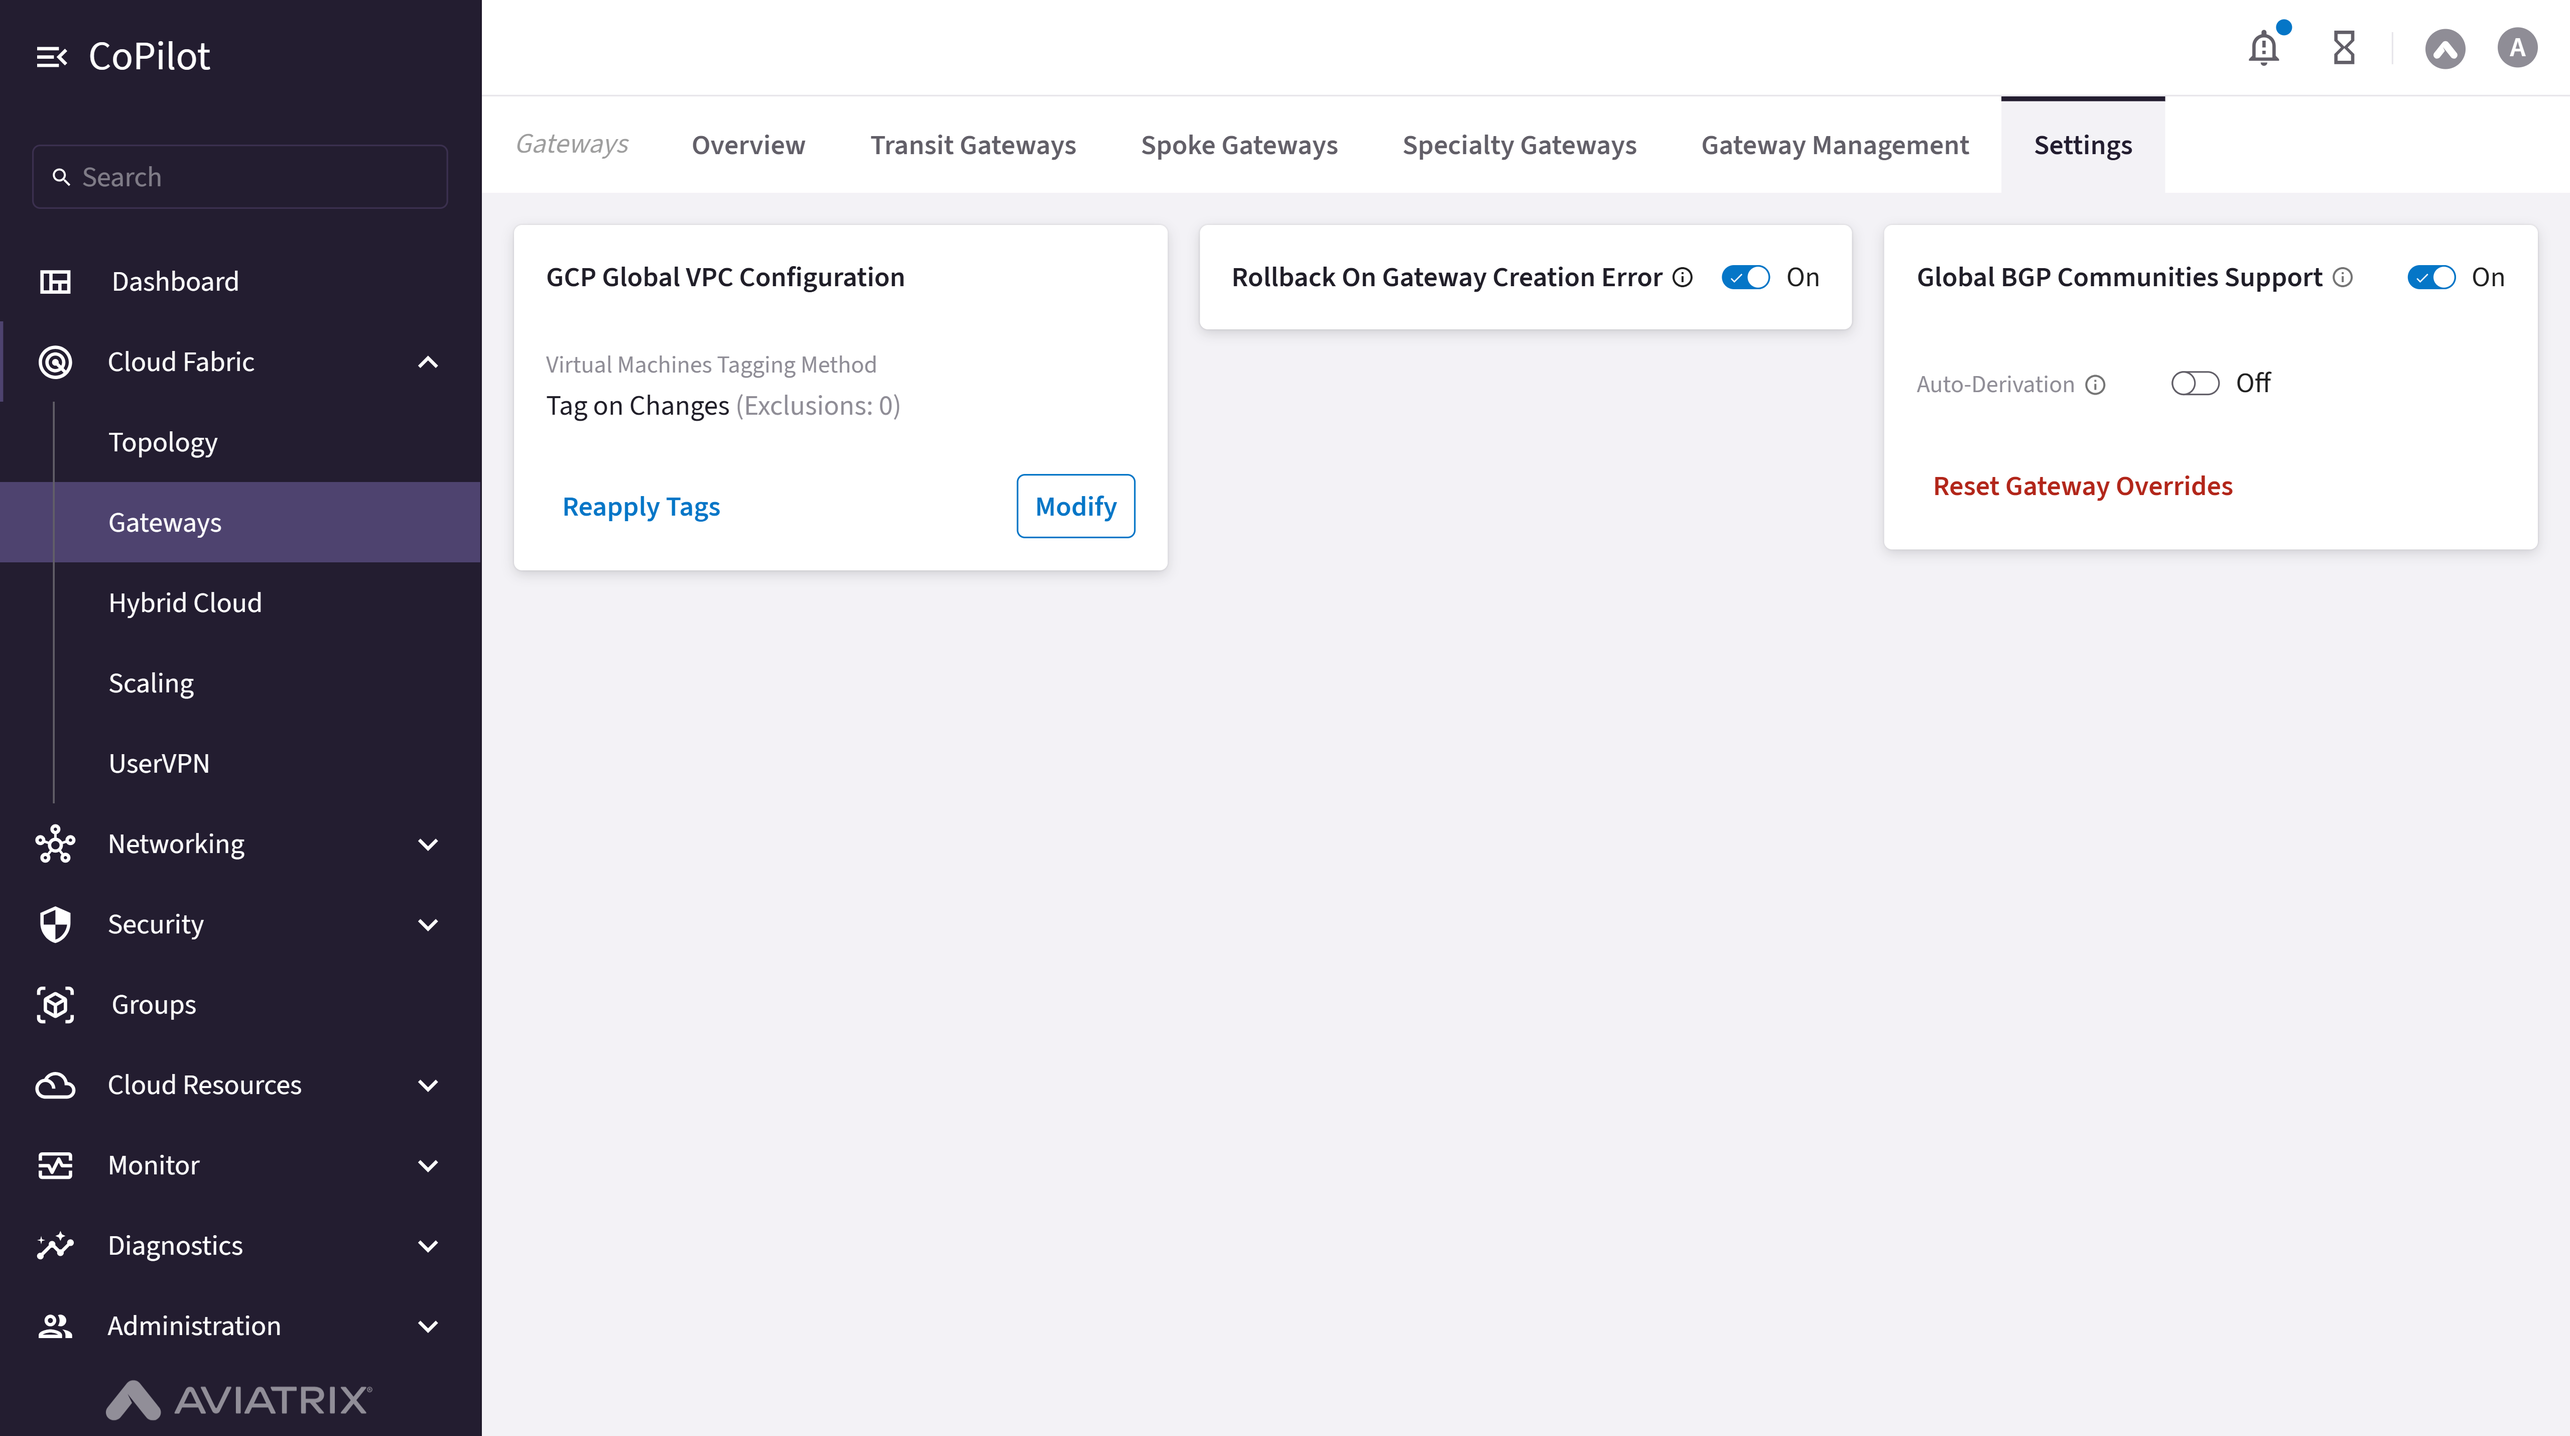
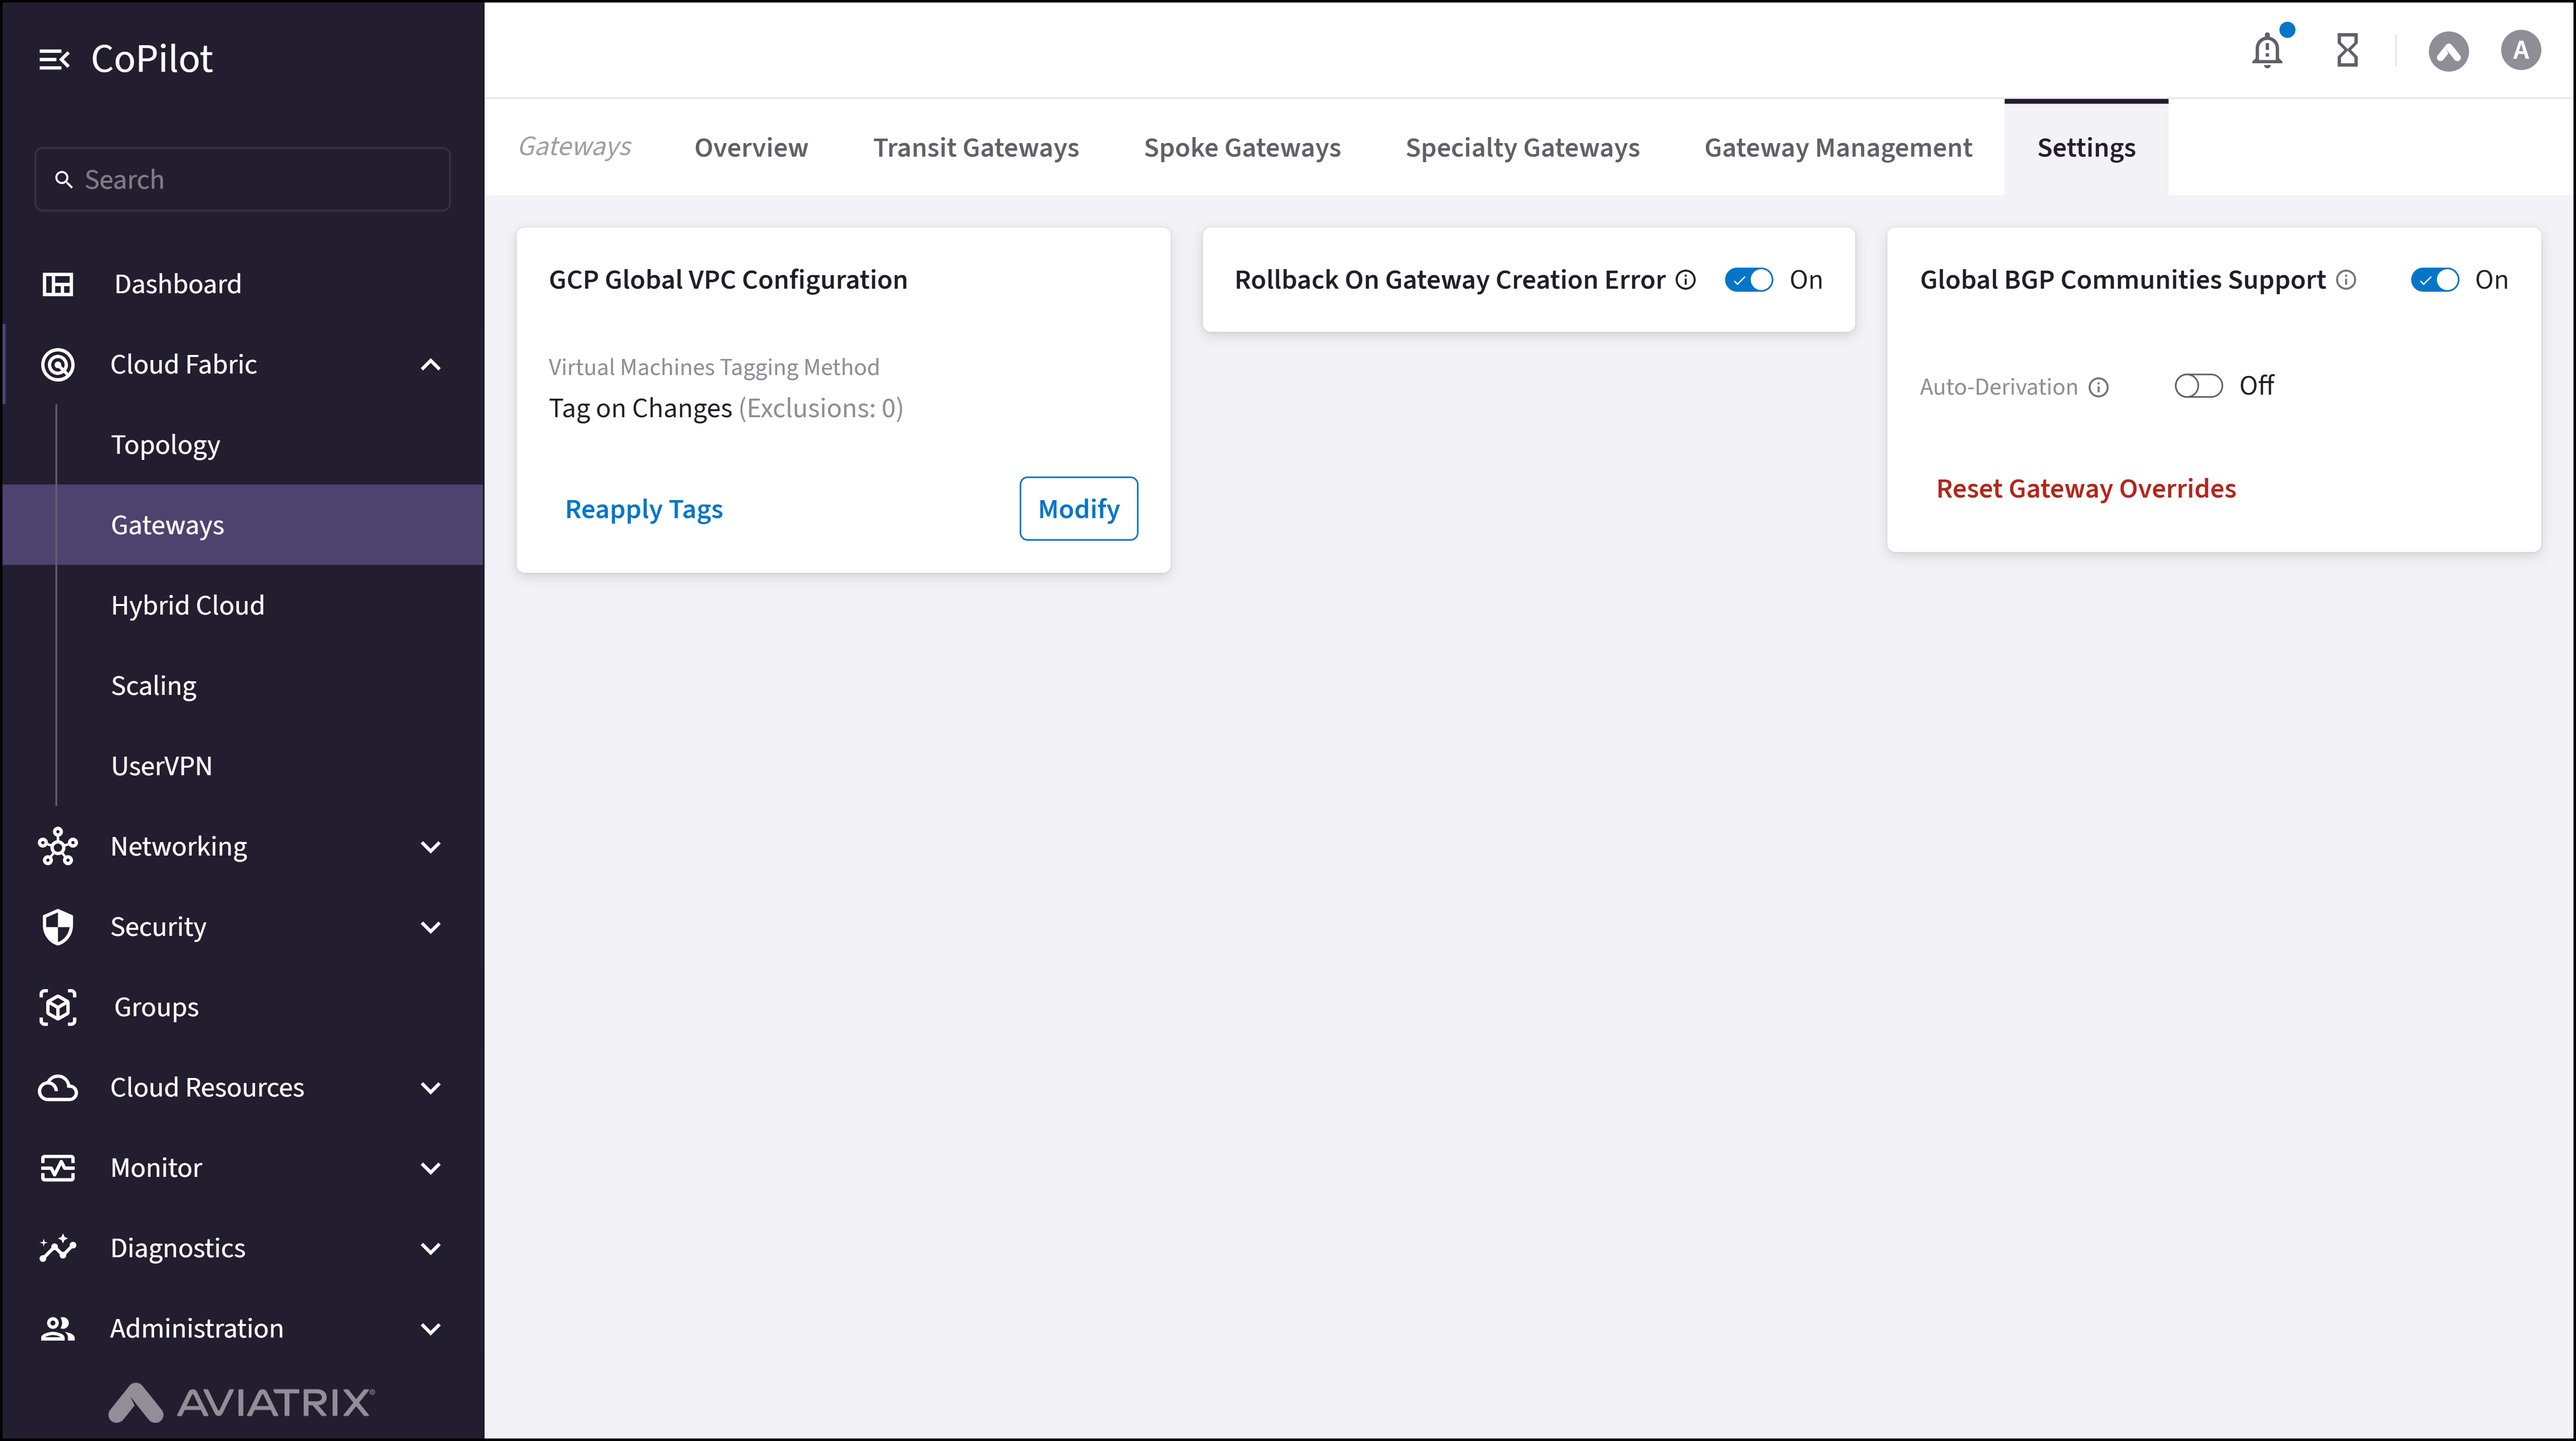
Added border and mangifier for comparison

diff --git a/Scale4_screenshot.py b/Scale4_screenshot.py
@@ -1,5 +1,6 @@
 #Scale4_screenshot.py
 # Add border
+#Comparison page magnification fix
 
 
 import asyncio
@@ -9,7 +10,7 @@ import getpass
 import re
 from pathlib import Path
 from playwright.async_api import async_playwright, Page
-from PIL import Image, ImageChops
+from PIL import Image, ImageChops, ImageOps
 
 JSON_FILE = Path("screenshots.json")
 SCREENSHOT_DIR = Path("screenshots")
@@ -360,10 +361,20 @@ async def take_screenshot(page: Page, path, clip):
     try:
         await page.wait_for_load_state("domcontentloaded", timeout=30000)
         await page.wait_for_load_state("networkidle", timeout=30000)
-        await page.wait_for_timeout(1000)
+        await page.wait_for_timeout(1000)        
         await page.evaluate(f'window.scrollTo({clip["x"]}, {clip["y"]})')
+        await asyncio.sleep(2)
         await page.screenshot(path=path, clip=clip, scale="device")
         print(f"[SAVED] {path}")
+
+
+        with Image.open(path) as img:
+            bordered = ImageOps.expand(img, border=5, fill="black")
+            bordered.save(path)
+
+        print(f"[UPDATED] Added black borders")
+
+
     except Exception as e:
         print(f"[ERROR] Failed to take screenshot {path}: {e}")
 
@@ -661,27 +672,135 @@ async def compare_and_prompt(page: Page):
 
         # Prepare HTML for visual comparison
         html = f"""
-        <html>
-        <head>
-        <style>
-          body {{ background: #222; color: #fff; font-family: sans-serif; text-align: center; }}
-          img {{ max-width: 45%; border: 3px solid #444; margin: 10px; }}
-          h2 {{ color: #ffd700; }}
-        </style>
-        </head>
-        <body>
-        <h2>Compare: {tmp_file.name}</h2>
-        <div>
-          <h3>Old</h3>
-          <img src="file:///{main_file.resolve()}" />
-          <h3>New</h3>
-          <img src="file:///{tmp_file.resolve()}" />
-          <h3>Diff</h3>
-          <img src="file:///{diff_path.resolve()}" />
-        </div>
-        </body>
-        </html>
-        """
+<html>
+<head>
+<style>
+  body {{
+    background: #222;
+    color: #fff;
+    font-family: sans-serif;
+    text-align: center;
+    margin: 0;
+    overflow-x: hidden;
+  }}
+  h2 {{
+    color: #ffd700;
+    margin-top: 20px;
+  }}
+  .container {{
+    display: flex;
+    flex-direction: row;
+    justify-content: center;
+    align-items: flex-start;
+    gap: 20px;
+    padding: 20px;
+  }}
+  .images {{
+    flex: 3;
+  }}
+  .zoom-preview {{
+    flex: 1;
+    border: 3px solid #555;
+    background: #111;
+    width: 400px;
+    height: 400px;
+    overflow: hidden;
+    position: sticky;
+    top: 50px;
+  }}
+  .zoom-preview h3 {{
+    color: #0ff;
+    font-size: 16px;
+    margin: 5px 0;
+  }}
+  img {{
+    max-width: 45%;
+    border: 3px solid #444;
+    margin: 10px;
+  }}
+</style>
+</head>
+<body>
+<h2>Compare: {tmp_file.name}</h2>
+
+<div class="container">
+  <div class="images">
+    <div>
+      <h3>Old</h3>
+      <img id="imgOld" src="file:///{main_file.resolve()}" />
+    </div>
+    <div>
+      <h3>New</h3>
+      <img id="imgNew" src="file:///{tmp_file.resolve()}" />
+    </div>
+    <div>
+      <h3>Diff</h3>
+      <img id="imgDiff" src="file:///{diff_path.resolve()}" />
+    </div>
+  </div>
+
+  <div class="zoom-preview" id="zoomBox">
+    <h3>Zoom preview</h3>
+    <canvas id="zoomCanvas" width="400" height="370"></canvas>
+  </div>
+</div>
+
+<script>
+function enableFixedZoom(imgIDs, zoom = 2) {{
+  const zoomCanvas = document.getElementById("zoomCanvas");
+  const ctx = zoomCanvas.getContext("2d");
+  const zoomBox = document.getElementById("zoomBox");
+
+  imgIDs.forEach(id => {{
+    const img = document.getElementById(id);
+    img.addEventListener("mousemove", e => showZoom(e, img));
+    img.addEventListener("mouseleave", clearZoom);
+  }});
+
+  function showZoom(e, img) {{
+    const rect = img.getBoundingClientRect();
+    const x = e.clientX - rect.left;
+    const y = e.clientY - rect.top;
+    const scaleX = img.naturalWidth / img.width;
+    const scaleY = img.naturalHeight / img.height;
+    const realX = x * scaleX;
+    const realY = y * scaleY;
+
+    const zoomSize = 150;
+    const sx = Math.max(0, realX - zoomSize / 2);
+    const sy = Math.max(0, realY - zoomSize / 2);
+    const sWidth = zoomSize;
+    const sHeight = zoomSize;
+
+    const imgElement = new Image();
+    imgElement.src = img.src;
+    imgElement.onload = () => {{
+      ctx.clearRect(0, 0, zoomCanvas.width, zoomCanvas.height);
+      ctx.imageSmoothingEnabled = true;
+      ctx.imageSmoothingQuality = 'high';
+      ctx.drawImage(
+        imgElement,
+        sx, sy, sWidth, sHeight,
+        0, 0, zoomCanvas.width, zoomCanvas.height
+      );
+    }};
+  }}
+
+  function clearZoom() {{
+    ctx.clearRect(0, 0, zoomCanvas.width, zoomCanvas.height);
+  }}
+}}
+
+enableFixedZoom(["imgOld", "imgNew", "imgDiff"], 2);
+</script>
+
+</body>
+</html>
+"""
+
+
+
+
 
         # Write temporary HTML to file
         html_path = TEMP_SCREENSHOT_DIR / f"compare_{tmp_file.stem}.html"
